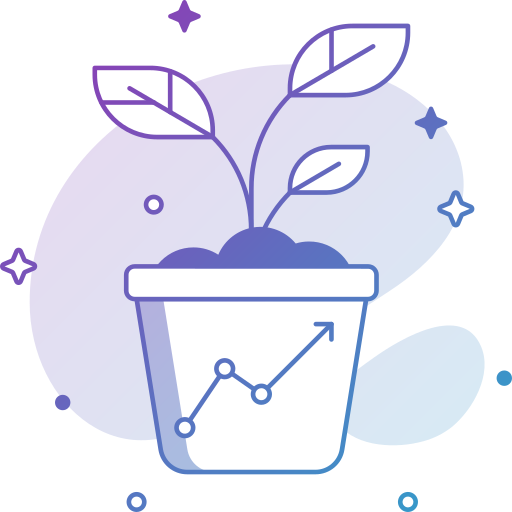
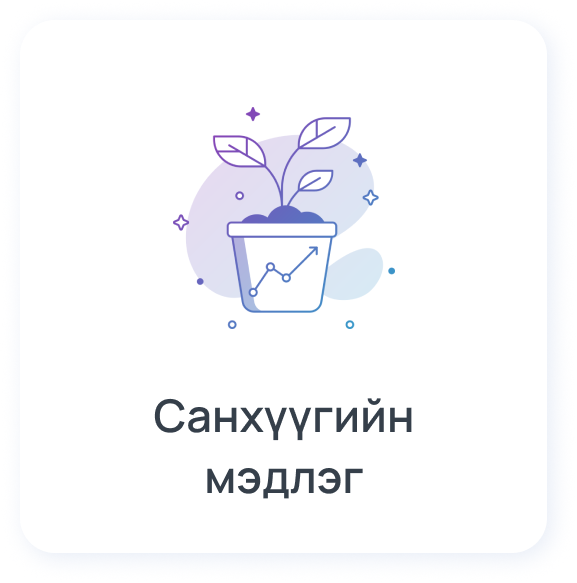
Нүүр хуудсыг list болгов

diff --git a/index.html b/index.html
@@ -10,47 +10,95 @@
     <div data-slide="slide" class="menu">
       <div class="slide-flex">
         <div class="head">Сэндли зөвлөх</div>
-          <div class="slide-menu">
+      <a href="takealoan.html">
+      <div class="items">
+        <div class="icon">
+          <img src="./img/icon/Icon1.png" alt="icon 1" />
+        </div>
+        <div class="description">  Зээл авах </div>
+        <div class="chevron">
+          <i class="gg-chevron-right"></i>
+        </div>
+      </div>
+      </a>
+      <a href="payment.html">
+      <div class="items">
+        <div class="icon">
+          <img src="./img/icon/Icon2.png" alt="icon 1" />
+        </div>
+        <div class="description">  Зээл төлөх </div>
+        <div class="chevron">
+          <i class="gg-chevron-right"></i>
+        </div>
+      </div>
+      </a>
+      <a href="zms.html">
+      <div class="items">
+        <div class="icon">
+          <img src="./img/icon/Icon3.png" alt="icon 1" />
+        </div>
+        <div class="description">  ЗМС лавлагаа </div>
+        <div class="chevron">
+          <i class="gg-chevron-right"></i>
+        </div>
+      </div>
+    </a>
+    <a href="sm.html">
+      <div class="items">
+        <div class="icon">
+          <img src="./img/icon/Icon4.png" alt="icon 1" />
+        </div>
+        <div class="description">  Санхүүгийн мэдлэг </div>
+        <div class="chevron">
+          <i class="gg-chevron-right"></i>
+        </div>
+      </div>
+      </a>
+      <a href="ts.html">
+      <div class="items">
+        <div class="icon">
+          <img src="./img/icon/Icon5.png" alt="icon 1" />
+        </div>
+        <div class="description">  Тогтвортой санхүүжилт </div>
+        <div class="chevron">
+          <i class="gg-chevron-right"></i>
+        </div>
+      </div>
+      </a>
+        <!-- <div class="slide-menu">
             <div class="slide-icon-left">
               <a href="takealoan.html">
                 <div class="img-back">
-                  <div class="py-1">
                     <img src="./img/icon1.png" alt="icon 1" />
-                  </div>
-                  <div class="desc">
-                   Зээл авах <br> &nbsp;
-                  </div>
                 </div>
               </a>
               <a href="zms.html">
               <div class="img-back">
-                <div class="py-1">
+                
                   <img src="./img/icon4.png" alt="icon 4" />
-                </div>
-                <div class="desc">ЗМС-ийн лавлагаа</div>
+               
               </div>
               </a>
             </div>
             <div class="slide-icon-right">
             <a href="payment.html">
               <div class="img-back">
-                <div class="py-1">
+                
                   <img src="./img/icon3.png" alt="icon 3" />
-                </div>
-                <div class="desc">Зээл төлөх <br> &nbsp;
-                </div>
+               
+                
               </div>
             </a>
             <a href="sm.html">
               <div class="img-back">
-                <div class="py-1">
+              
                   <img src="./img/icon2.png" alt="icon 2" />
-                </div>
-                <div class="desc">Санхүүгийн мэдлэг</div>
+                
+                
               </div>
             </a>
             </div>
-          </div>
+          </div> -->
         </div>
       </div>
     </div>

diff --git a/style.css b/style.css
@@ -1,5 +1,6 @@
 @import url('https://unpkg.com/css.gg@2.0.0/icons/css/menu-left.css');
 @import url('https://unpkg.com/css.gg@2.0.0/icons/css/chevron-left.css');
+@import url('https://unpkg.com/css.gg@2.0.0/icons/css/chevron-right.css');
 @import url('https://unpkg.com/css.gg@2.0.0/icons/css/close.css');
 @import url('https://fonts.googleapis.com/css?family=Roboto');
 @import url('https://fonts.googleapis.com/css?family=Manrope');
@@ -14,7 +15,7 @@
 
 body {
   background: #F5F7FA;
-  font-family: 'Roboto';
+  font-family: 'Manrope';
   font-style: normal;
 }
 
@@ -25,19 +26,16 @@ img {
   height: auto;
 }
 .img-back{
-background: #FFFFFF;
+/* background: #FFFFFF; */
 border-radius: 15px;
-padding: 0.5rem 1.5rem 1rem 1.5rem;
-margin: 1rem 0.5rem;
+/* padding: 0.5rem 1.5rem 1rem 1.5rem; */
 justify-content: center;
 text-align: center;
 align-items: center;
-box-shadow: 5px 5px 10px 0 rgba(	211,221,239, 0.53) ;
+/* box-shadow: 5px 5px 10px 0 rgba(	211,221,239, 0.53) ; */
 }
 
-.py-1{
-  padding: 1.5rem 1.5rem 1rem 1.5rem;
-}
+
 
 a {
   text-decoration: none;
@@ -52,7 +50,6 @@ a {
   background: #F5F7FA;
   box-shadow: 0 4px 20px 2px rgba(0, 0, 0, 0.4);
   overflow-x: hidden;
- 
 }
 .header{
   display: flex;
@@ -65,36 +62,61 @@ a {
 }
 .header-close {
   position: absolute;
-  top: 30px;
+  top: 25px;
   right: 10px;
   z-index: 200;
   cursor: pointer;
   color: #000;
 }
-.header img{
-  max-width: 100%;
-  display: block;
-  width: 5rem;
-  height: 1.5rem ;
+.close {
+  position: absolute;
+  top: 25px;
+  right: 10px;
+  z-index: 200;
+  cursor: pointer;
+  color: #FFFFFF;
 }
 .head{
   font-family: 'Manrope';
   position: relative;
   left: 40px;
-  margin-top: 50px;
+  margin-top: 10px;
   z-index: 2;
-  color: #353F4A;
   font-size: 1rem;
   grid-area: 1/1;
   padding: 1rem 1rem;
+  margin-bottom: 10px;
+  color: #001C4A;
+  font-weight: bold;
   
 }
-.desc{
-  font-family: 'Manrope';
-  font-style: normal;
-  font-weight: 600;
-  font-size: 14px;
-  color: #353F4A;
+.items{
+  display: flex;
+  background-color: #FFFFFF;
+  box-shadow: rgba(211, 221, 239, 0.53);
+  height: 50px;
+  align-items: center;
+  margin: 0 30px;
+  justify-content: space-between;
+  border-radius: 15px;
+  margin-bottom: 20px;
+}
+.description{
+width: 100%;
+color: #001C4A;
+font-weight: 600;
+font-size: 0.85rem;
+}
+.chevron{
+  margin-right: 10px;
+}
+.icon{
+  margin: 10px;
+  padding: 10px;
+}
+.icon img{
+ max-width: 25px ;
+ height: auto;
 }
 .slide {
   display: grid;
@@ -122,7 +144,7 @@ a {
   margin-right: 1.5rem;
 }
 .slide-nav {
-  margin-top: 30px;
+  margin-top: 5px;
   grid-area: 1/1;
   z-index: 1;
   display: grid;
@@ -146,27 +168,6 @@ a {
   /* background-position-y: 14rem;
   background-position-x: -10rem; */
   
-}
-.close {
-  position: absolute;
-  top: 50px;
-  right: 10px;
-  z-index: 3;
-  cursor: pointer;
-  color: #FFFFFF;
-}
-#play-pause {
-  position: absolute;
-  top: 20px;
-  left: 10px;
-  z-index: 2;
-  cursor: pointer;
-  height:20px;
-  width: 20px;
-  text-indent: -999999px; 
-  background-position:center;
-  filter: invert(100%);
-  -webkit-filter: invert(100%);
 }
 
 .slide-nav button {

diff --git a/payment.html b/payment.html
@@ -15,38 +15,60 @@
           <div class="header-close"><i class="gg-close"></i></div
         ></a> 
         <div class="head">Зээл төлөх</div>
-          <div class="slide-menu">
+        <a href="hipay_payment.html">
+        <div class="items">
+          <div class="icon">
+            <img src="./img/icon/Icon6.png" alt="icon 1" />
+          </div>
+          <div class="description">  Хэтэвчээр төлөх </div>
+          <div class="chevron">
+            <i class="gg-chevron-right"></i>
+          </div>
+        </div>
+      </a>
+      <a href="card_payment.html">
+        <div class="items">
+          <div class="icon">
+            <img src="./img/icon/Icon7.png" alt="icon 1" />
+          </div>
+          <div class="description">  Картаар төлөх </div>
+          <div class="chevron">
+            <i class="gg-chevron-right"></i>
+          </div>
+        </div>
+        </a>
+        <a href="khaan_payment.html">
+        <div class="items">
+          <div class="icon">
+            <img src="./img/icon/Icon8.png" alt="icon 1" />
+          </div>
+          <div class="description">  Банкны дансаар төлөх</div>
+          <div class="chevron">
+            <i class="gg-chevron-right"></i>
+          </div>
+        </div>
+        </a>
+          <!-- <div class="slide-menu">
             <div class="slide-icon-left">
               <a href="hipay_payment.html">
                 <div class="img-back">
-                  <div class="py-1">
                     <img src="./img/p1.png" alt="icon 1" />
-                  </div>
-                  <div class="desc">Хэтэвч төлөх <br> &nbsp;
-                  </div>
                 </div>
               </a>
               <a href="khaan_payment.html">
               <div class="img-back">
-                <div class="py-1">
                   <img src="./img/p2.png" alt="icon 4" />
-                </div>
-                <div class="desc">Банкны дансаар төлөх</div>
               </div>
               </a>
             </div>
             <div class="slide-icon-right">
             <a href="card_payment.html">
               <div class="img-back">
-                <div class="py-1">
                   <img src="./img/p3.png" alt="icon 3" />
-                </div>
-                <div class="desc">Картаар төлөх <br> &nbsp;
-                </div>
               </div>
             </a>
             </div>
-          </div>
+          </div> -->
         </div>
       </div>
     </div>
